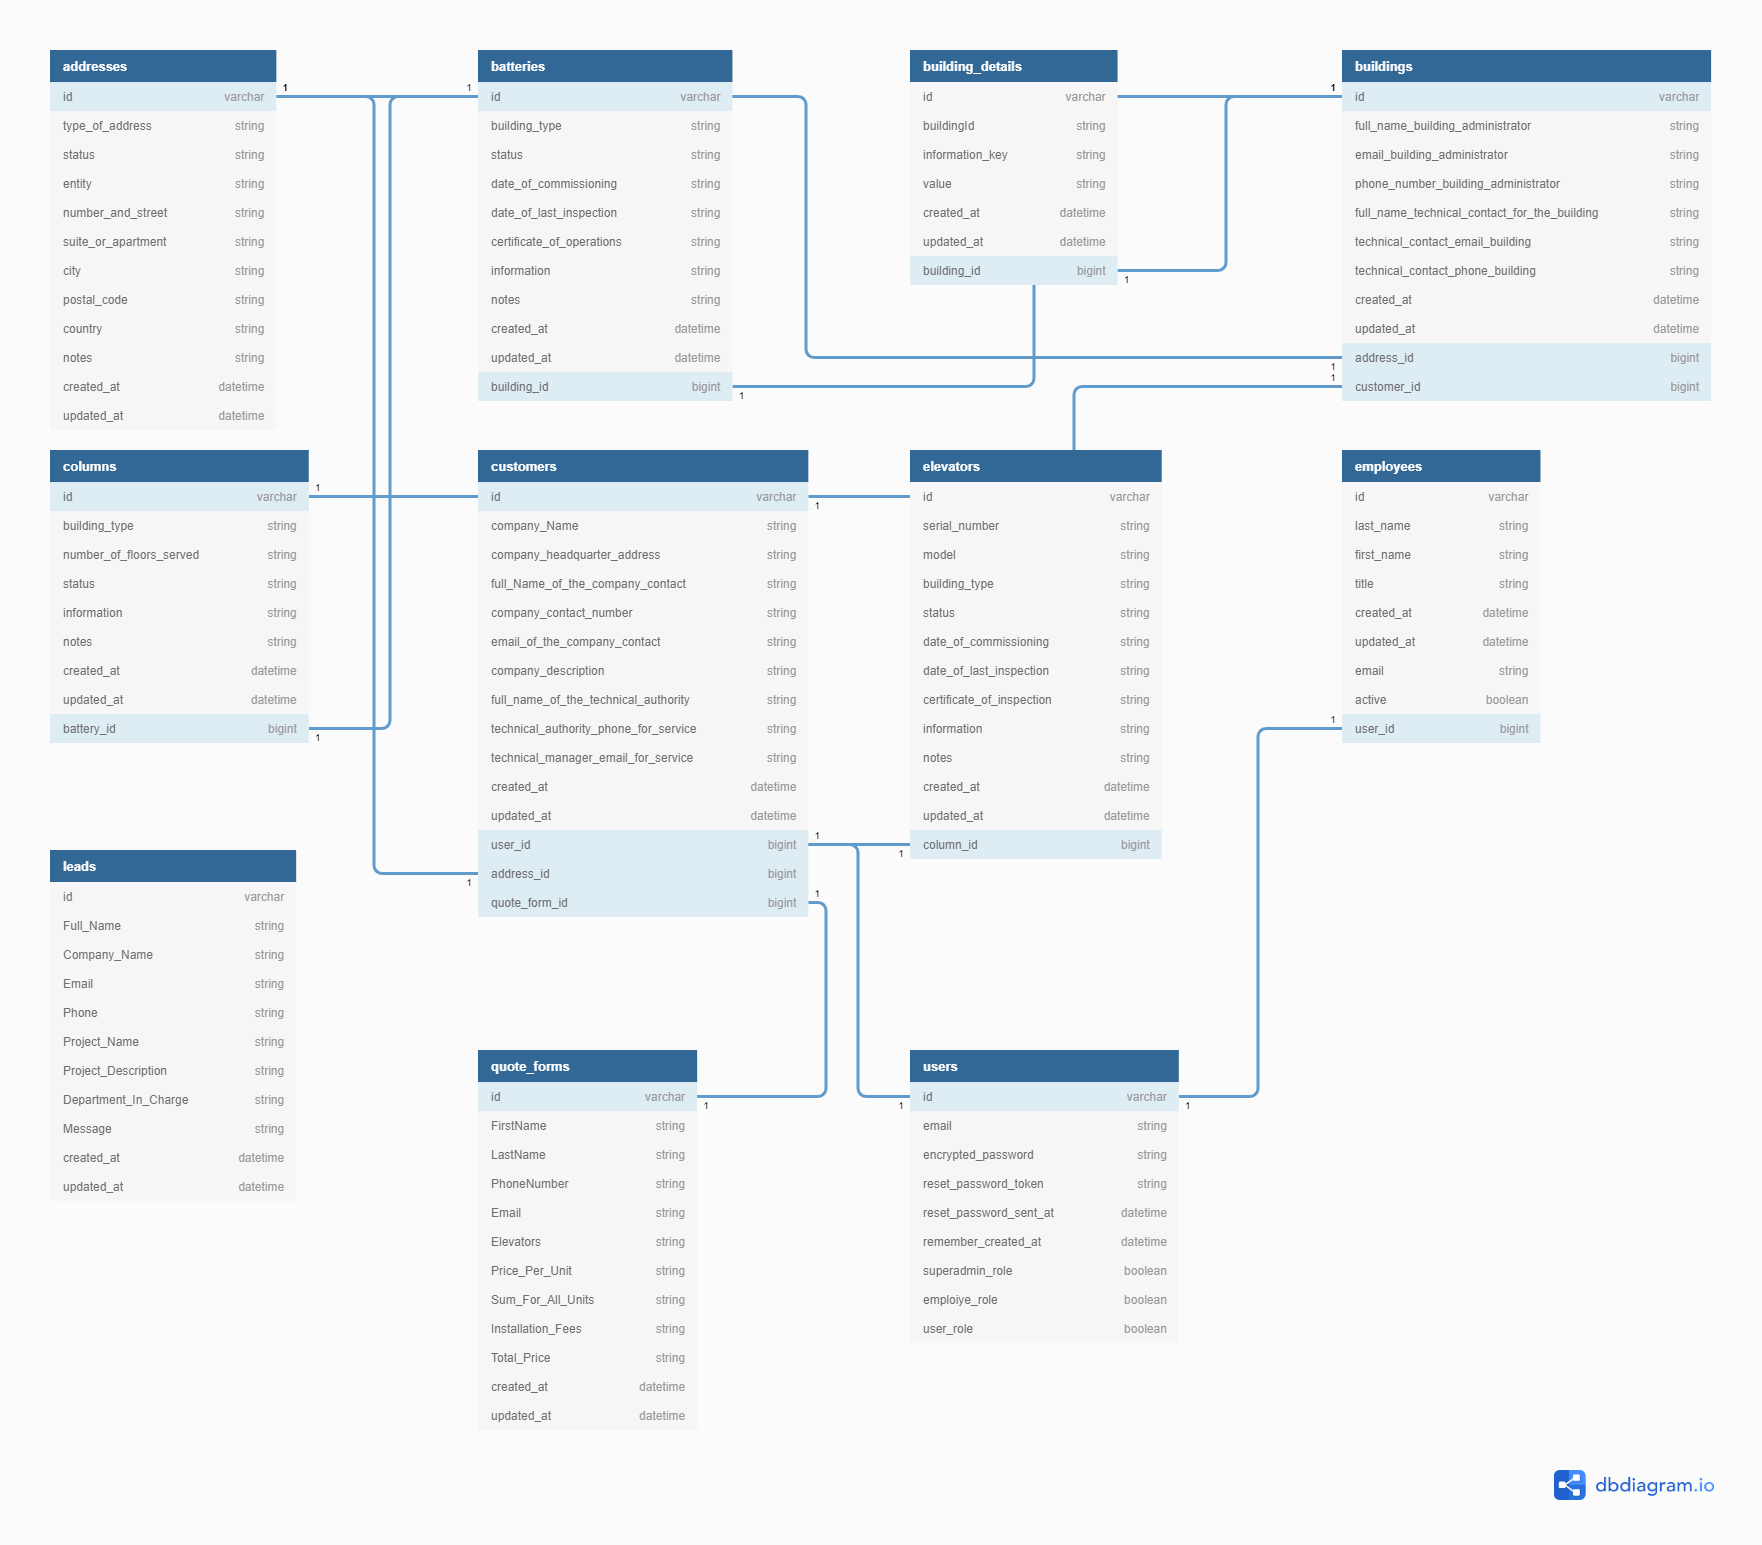
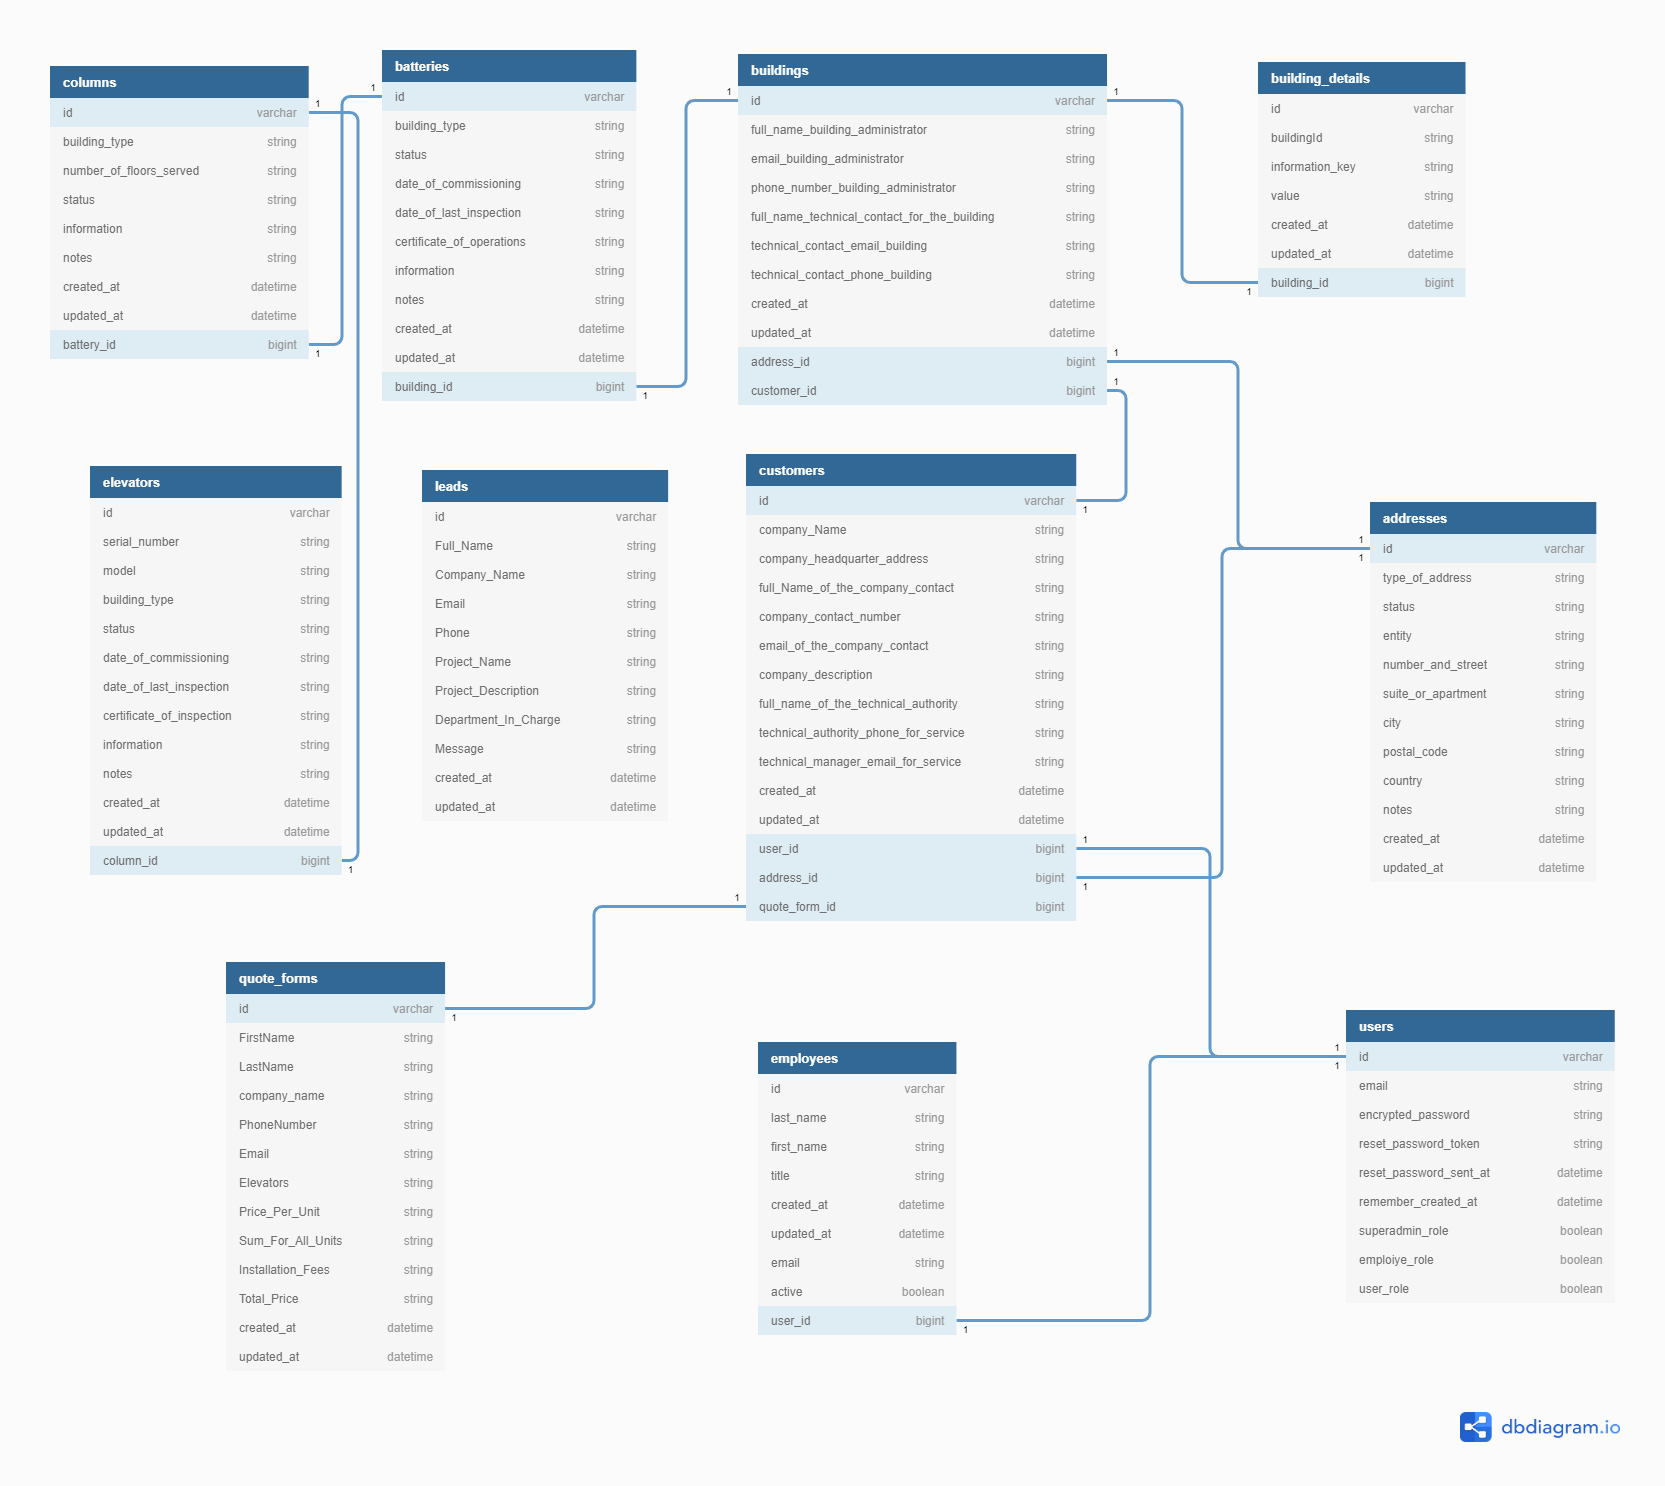
D5 15:22 CSL

diff --git a/db/schema.rb b/db/schema.rb
@@ -10,7 +10,7 @@
 #
 # It's strongly recommended that you check this file into your version control system.
 
-ActiveRecord::Schema.define(version: 2021_02_24_162729) do
+ActiveRecord::Schema.define(version: 2021_02_26_193357) do
 
   create_table "addresses", options: "ENGINE=InnoDB DEFAULT CHARSET=utf8", force: :cascade do |t|
     t.string "type_of_address"
@@ -141,6 +141,7 @@ ActiveRecord::Schema.define(version: 2021_02_24_162729) do
   create_table "quote_forms", options: "ENGINE=InnoDB DEFAULT CHARSET=utf8", force: :cascade do |t|
     t.string "FirstName"
     t.string "LastName"
+    t.string "company_name"
     t.string "PhoneNumber"
     t.string "Email"
     t.string "Elevators"
@@ -150,6 +151,7 @@ ActiveRecord::Schema.define(version: 2021_02_24_162729) do
     t.string "Total_Price"
     t.datetime "created_at", null: false
     t.datetime "updated_at", null: false
+    
   end
 
   create_table "users", options: "ENGINE=InnoDB DEFAULT CHARSET=utf8", force: :cascade do |t|

diff --git a/app/controllers/quote_forms_controller.rb b/app/controllers/quote_forms_controller.rb
@@ -65,6 +65,6 @@ class QuoteFormsController < ApplicationController
 
     # Only allow a list of trusted parameters through.
     def quote_form_params
-      params.require(:quote_form).permit(:FirstName, :LastName, :CompanyName, :PhoneNumber, :Email, :Elevators, :Price_Per_Unit, :Sum_For_All_Units, :Installation_Fees, :Total_Price)
+      params.require(:quote_form).permit(:FirstName, :LastName, :company_name, :PhoneNumber, :Email, :Elevators, :Price_Per_Unit, :Sum_For_All_Units, :Installation_Fees, :Total_Price)
     end
 end

diff --git a/db/seeds.rb b/db/seeds.rb
@@ -157,6 +157,7 @@ elevatorQualityPrice = [7565,12345,15400]
         FirstName: Faker::Name.first_name,
         PhoneNumber: Faker::PhoneNumber.phone_number,
         LastName: Faker::Name.last_name,
+        company_name:  Faker::Company.unique.name,
         Elevators: elevators,
         Total_Price: totalPrice,
         Price_Per_Unit: elevatorQualityPrice[list],

diff --git a/db/migrate/20210218032532_create_quote_forms.rb b/db/migrate/20210218032532_create_quote_forms.rb
@@ -3,7 +3,6 @@ class CreateQuoteForms < ActiveRecord::Migration[5.2]
     create_table :quote_forms do |t|
       t.string :FirstName
       t.string :LastName
-      t.string :CompanyName
       t.string :PhoneNumber
       t.string :Email
       t.string :Elevators

diff --git a/db/migrate/20210226193357_add_company_name_to_quote_forms.rb b/db/migrate/20210226193357_add_company_name_to_quote_forms.rb
@@ -1,0 +1,5 @@
+class AddCompanyNameToQuoteForms < ActiveRecord::Migration[5.2]
+  def change
+    add_column :quote_forms, :company_name, :string
+  end
+end
